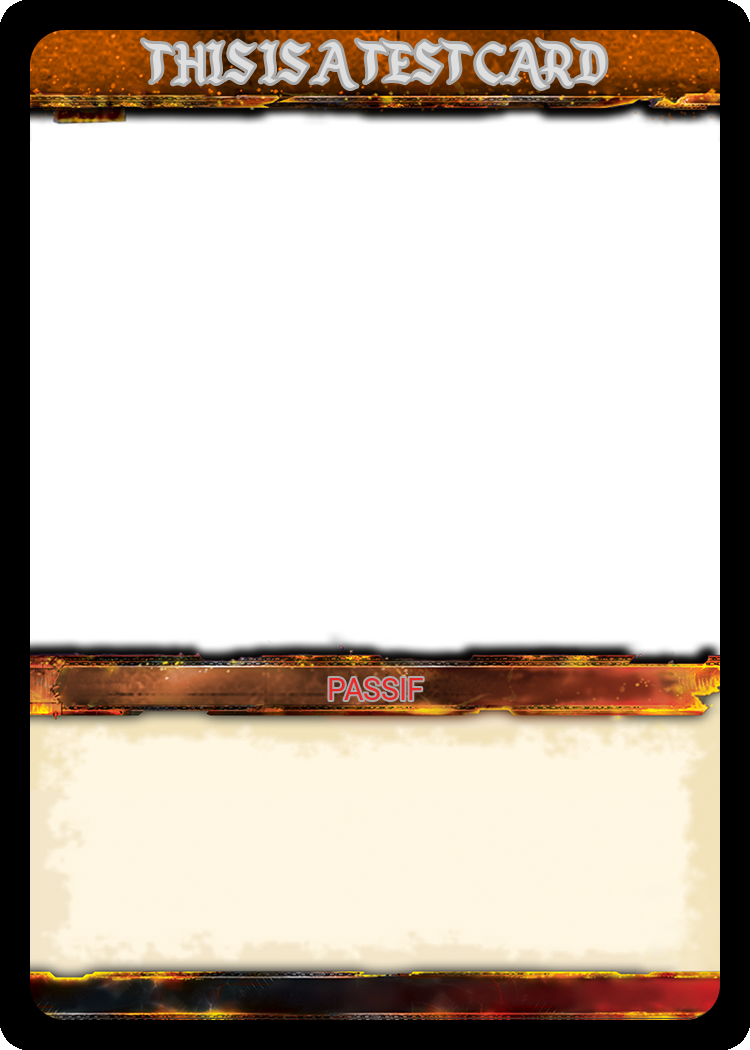
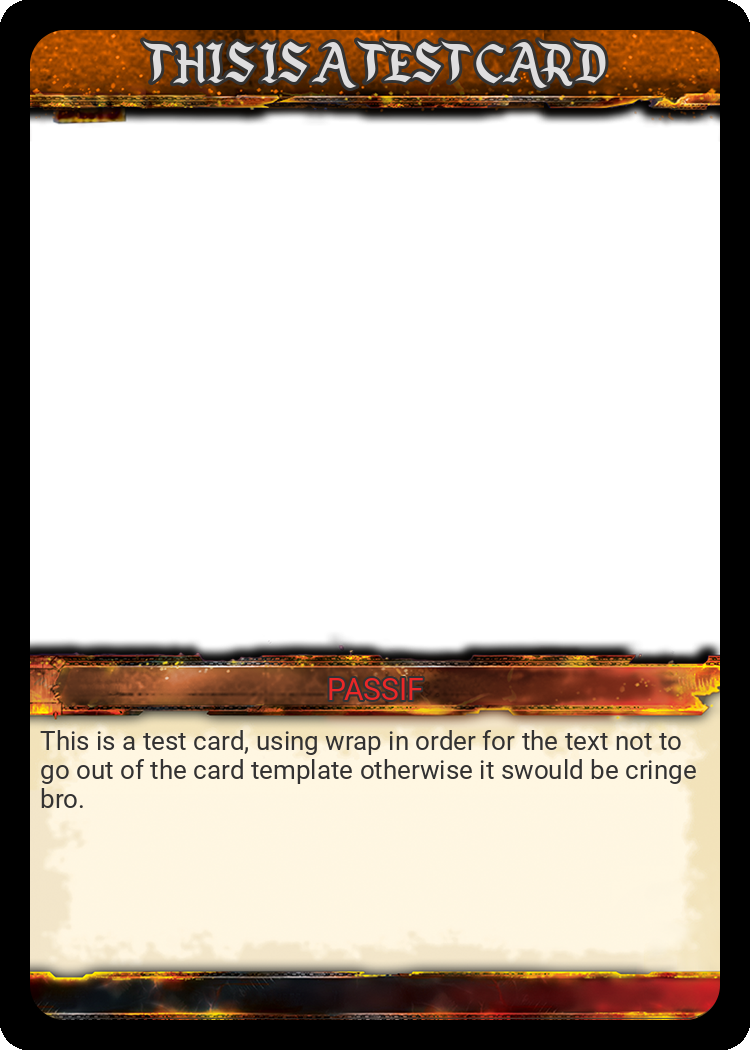
added description of the spell and his dedicated wrapper

Changed region(s): [[0.0307, 0.701, 0.92, 0.7924], [0.184, 0.0305, 0.828, 0.0914], [0.4293, 0.64, 0.5827, 0.6705]]

diff --git a/test1.py b/test1.py
@@ -1,19 +1,35 @@
+import textwrap
 from PIL import Image, ImageFont, ImageDraw
+
 cardTemplate = Image.open("ressources/GeneralTemplate.png") # This is the general PNG template used for cards
 titleFont = ImageFont.truetype('ressources/enchantedLand.otf', 60)
-Font = ImageFont.truetype('ressources/Roboto-Regular.ttf', 30)
+typeFont = ImageFont.truetype('ressources/Roboto-Regular.ttf', 30)
+descFont = ImageFont.truetype('ressources/Roboto-Regular.ttf', 26)
 
+# fonts color variables
 forceColor = ('#EA2727')
 agilityColor = ('#E7E743')
 intelligenceColor = ('#43C3E7')
 passiveColor = ('#DFDEDF')
-outline = ('#A9A9A9')
+outline = ('#333333')
 
+# content of the card, declared here by var but will get modified once JSON file is loaded
 spellName = "THIS IS A TEST CARD"
 spellType = "PASSIF"
+spellDesc = "This is a test card, using wrap in order for the text not to go out of the card template otherwise it swould be cringe bro."
+
+# Using a wrapper for desc as it is usually long texts.
+wrapper = textwrap.TextWrapper(width = 60)
+wordList = wrapper.wrap(text = spellDesc)
+spellDescWrapped = ''
+for ii in wordList[:-1]:
+    spellDescWrapped = spellDescWrapped + ii + '\n'
+spellDescWrapped += wordList[-1]
+
 editableCard = ImageDraw.Draw(cardTemplate)
 editableCard.text((375,80), spellName, passiveColor, font = titleFont, anchor = 'ms', stroke_width = 3, stroke_fill = outline) # Title of the card, big text on top
-editableCard.text((375,700), spellType, forceColor, font = Font, anchor = 'ms', stroke_width = 2, stroke_fill = outline) # Type of the card, below artwork
+editableCard.text((375,700), spellType, forceColor, font = typeFont, anchor = 'ms', stroke_width = 2, stroke_fill = outline) # Type of the card, below artwork
+editableCard.text((40,750), spellDescWrapped, '#333232', font = descFont, anchor = 'ls')
 
 cardTemplate.save('Cards/'+spellType+'_'+spellName+'.png') # Save file in Card folder
 print('Created card succesfully !')
